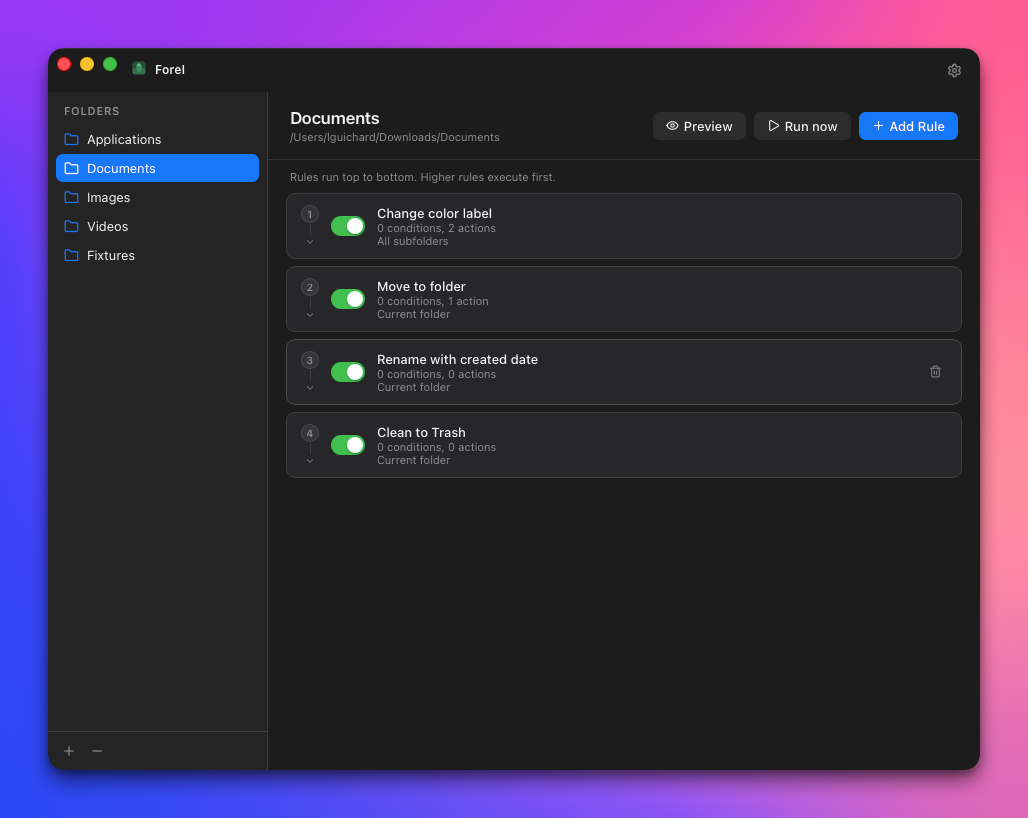
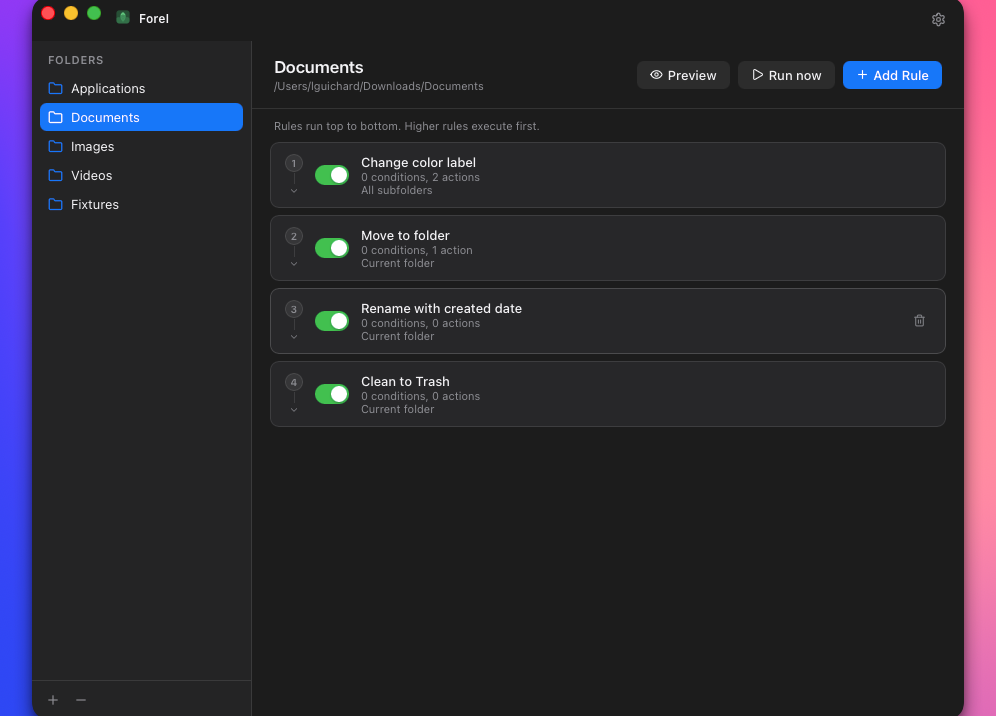
Update Readme

diff --git a/src/components/Settings.tsx b/src/components/Settings.tsx
@@ -2,6 +2,7 @@ import {
   ChevronRight,
   Download,
   ExternalLink,
+  Heart,
   History as HistoryIcon,
   Monitor,
   Moon,
@@ -171,6 +172,28 @@ export default function Settings({
             <span className="settings-about-desc">
               Open-source file automation for macOS.
             </span>
+            <div className="settings-about-links">
+              <button
+                className="settings-about-link"
+                onClick={() => void openUrl("https://github.com/lguichard/forel")}
+              >
+                <ExternalLink size={12} /> GitHub
+              </button>
+              <span className="settings-about-sep">·</span>
+              <button
+                className="settings-about-link"
+                onClick={() => void openUrl("https://github.com/lguichard/forel/blob/main/CONTRIBUTING.md")}
+              >
+                Contributing welcome
+              </button>
+              <span className="settings-about-sep">·</span>
+              <button
+                className="settings-about-link"
+                onClick={() => void openUrl("https://github.com/sponsors/lguichard")}
+              >
+                <Heart size={12} /> Sponsor
+              </button>
+            </div>
           </div>
         </section>
       </div>

diff --git a/src/App.css b/src/App.css
@@ -565,6 +565,10 @@ input, select, textarea { font-family: inherit; font-size: 13px; color: var(--te
 .settings-about-name { font-size: 14px; font-weight: 600; }
 .settings-about-version { font-size: 11px; color: var(--text-secondary); }
 .settings-about-desc { font-size: 12px; color: var(--text-secondary); }
+.settings-about-links { display: flex; align-items: center; gap: 8px; margin-top: 6px; flex-wrap: wrap; }
+.settings-about-link { background: none; border: none; cursor: pointer; font-size: 11px; color: var(--accent); padding: 0; display: inline-flex; align-items: center; gap: 4px; }
+.settings-about-link:hover { opacity: 0.7; }
+.settings-about-sep { font-size: 11px; color: var(--text-secondary); }
 
 .settings-link-row {
   width: 100%;